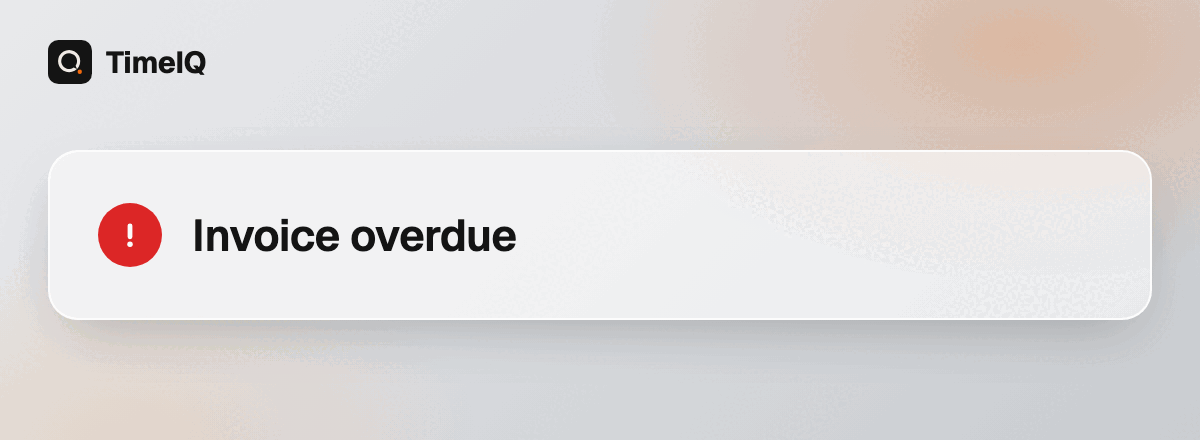
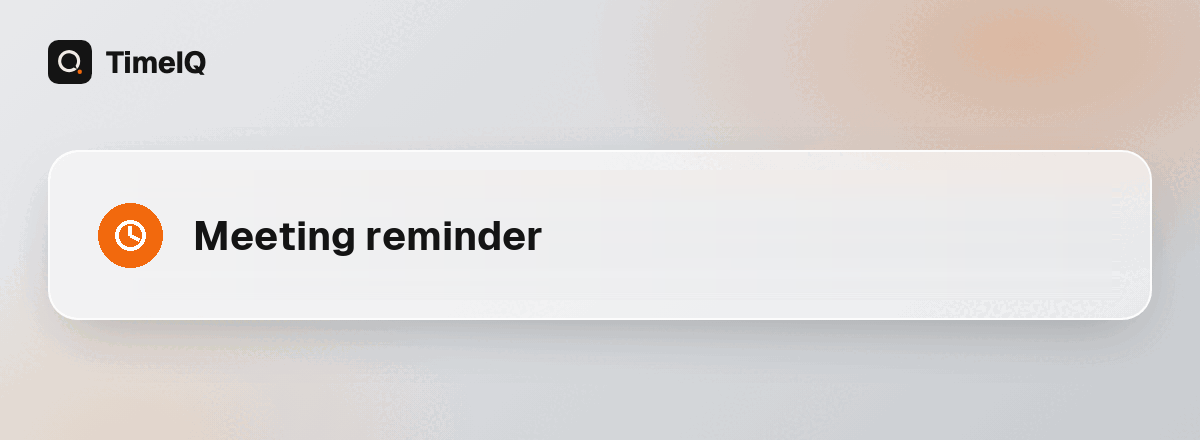
Emails: a header that matches each email instead of 'Invoice overdue'; meet page says who a time works for

Changed region(s): [[0.0617, 0.4432, 0.4625, 0.6205]]

diff --git a/frontend/src/app/meet/[token]/page.tsx b/frontend/src/app/meet/[token]/page.tsx
@@ -53,6 +53,11 @@ function GetTimeIQ() {
   );
 }
 
+/** How many people the time works for, counting the viewer's own pick. */
+function fitsLabel(n: number, people: number): string {
+  return n >= people ? "Works for everyone" : `Works for ${n} of ${people}`;
+}
+
 export default function MeetInvitePage() {
   const { token } = useParams<{ token: string }>();
   const { isSignedIn, getToken } = useAuth();
@@ -254,7 +259,7 @@ export default function MeetInvitePage() {
                         <span className="flex items-center gap-2 text-xs">
                           {others > 0 && slot && (
                             <span className={on ? "text-background/70" : "text-muted-foreground"}>
-                              {slot.can_make_it + (on && !slot.mine ? 1 : 0) - (!on && slot.mine ? 1 : 0)} of {m.people} free
+                              {fitsLabel(slot.can_make_it + (on && !slot.mine ? 1 : 0) - (!on && slot.mine ? 1 : 0), m.people)}
                             </span>
                           )}
                           <span
@@ -319,7 +324,7 @@ export default function MeetInvitePage() {
                               <span className="block font-mono tabular-nums">{timeLabel(s.start, zone)}</span>
                               {others > 0 && (
                                 <span className={`block text-[10px] ${on ? "text-background/70" : "text-muted-foreground"}`}>
-                                  {s.can_make_it + (on && !s.mine ? 1 : 0) - (!on && s.mine ? 1 : 0)} of {m.people} free
+                                  {fitsLabel(s.can_make_it + (on && !s.mine ? 1 : 0) - (!on && s.mine ? 1 : 0), m.people)}
                                 </span>
                               )}
                             </button>

diff --git a/backend/app/services/email.py b/backend/app/services/email.py
@@ -662,7 +662,7 @@ def render_overdue_digest(user: User, invoices: list, today: date) -> str:
         + t.details(rows, rows_html=True)
         + t.buttons(t.button("View invoices", f"{_site()}/invoices"))
     )
-    return t.layout("reminder", f"{len(invoices)} overdue invoice(s), {fmt_money(total, currency)} outstanding", body)
+    return t.layout("overdue", f"{len(invoices)} overdue invoice(s), {fmt_money(total, currency)} outstanding", body)
 
 
 def send_overdue_digest(user: User, invoices: list, today: date) -> None:
@@ -713,7 +713,7 @@ def render_calendar_broken(user: User, source) -> str:
         + t.buttons(t.button("Fix it in TimeIQ", f"{_site()}/calendars"))
         + t.p("TimeIQ will keep checking once a day and stop warning you as soon as it syncs again.", muted=True)
     )
-    return t.layout("reminder", f"{source.name} stopped syncing with TimeIQ", body)
+    return t.layout("calendar", f"{source.name} stopped syncing with TimeIQ", body)
 
 
 def send_calendar_broken(user: User, source) -> None:
@@ -771,7 +771,7 @@ def render_schedule_import(user: User, record, rows: list[dict], schedule_name: 
             )
             + t.p("Something wrong? Undo it, then forward the schedule again with a note about what to fix.", muted=True)
         )
-        return subject, t.layout("reminder", subject, body)
+        return subject, t.layout("schedule", subject, body)
     if record.status == "rejected":
         subject = "We couldn't add that schedule"
         message = record.error or "That email couldn't be imported."
@@ -785,7 +785,7 @@ def render_schedule_import(user: User, record, rows: list[dict], schedule_name: 
         subject = "Something went wrong adding that schedule"
         message = "TimeIQ hit an error reading it. Please try again in a few minutes; nothing was added."
     body = t.h1(subject) + t.p(message) + t.buttons(t.button("Open TimeIQ", f"{_site()}/calendars"))
-    return subject, t.layout("reminder", subject, body)
+    return subject, t.layout("schedule", subject, body)
 
 
 def send_schedule_import_reply(user: User, record, rows: list[dict], schedule_name: str | None, to: list[str]) -> None:
@@ -863,7 +863,7 @@ def render_free_meetings(user: User, left: int, free: int) -> str:
         + t.buttons(t.button("Pick a plan", f"{site}/pricing"))
         + t.signoff(MAKER_NAME, MAKER_ROLE)
     )
-    return t.layout("reminder", lead, body)
+    return t.layout("account", lead, body)
 
 
 async def send_free_meetings_notice(user: User, left: int, free: int, key: str) -> None:
@@ -904,7 +904,7 @@ def render_trial_ending(trial_end: datetime, price: str, interval: str, has_acco
         )
         + t.buttons(manage)
     )
-    return t.layout("reminder", f"Your TimeIQ trial ends {when}: {price} per {interval} after that.", body)
+    return t.layout("account", f"Your TimeIQ trial ends {when}: {price} per {interval} after that.", body)
 
 
 async def send_trial_ending(
@@ -1062,7 +1062,7 @@ def render_group_invite(meeting, participant, suggested: list[datetime] | None =
         + picker
         + _timeiq_note()
     )
-    return t.layout("reminder", f"{org} wants to find a time for {meeting.title}", body)
+    return t.layout("find-time", f"{org} wants to find a time for {meeting.title}", body)
 
 
 def send_group_invite(meeting, participant, reminder: bool = False, suggested: list[datetime] | None = None) -> None:
@@ -1411,7 +1411,7 @@ def send_alias_confirmation(email: str, token: str, owner: User) -> None:
     )
     _init_resend()
     _send({"from": FROM_EMAIL, "to": [email], "subject": subject,
-           "html": t.layout("reminder", subject, body)}, "address confirmation")
+           "html": t.layout("account", subject, body)}, "address confirmation")
 
 
 def send_unknown_agent_sender(sender: str) -> None:
@@ -1423,4 +1423,4 @@ def send_unknown_agent_sender(sender: str) -> None:
     _init_resend()
     _send({"from": FROM_EMAIL, "to": [sender], "subject": subject,
            "headers": {"Auto-Submitted": "auto-replied"},
-           "html": t.layout("reminder", subject, body)}, "unknown agent sender")
+           "html": t.layout("account", subject, body)}, "unknown agent sender")

diff --git a/brand/email_heroes.py b/brand/email_heroes.py
@@ -1,0 +1,91 @@
+"""
+Draw the email header images that only differ by their label card.
+
+Starts from hero-invoice.png (logo, glass background, empty-able card), clears
+the card's icon and label, and draws a new icon and label in Geist Bold.
+Run from the repo root: python3 brand/email_heroes.py
+"""
+from pathlib import Path
+
+from PIL import Image, ImageDraw, ImageFilter, ImageFont
+
+ROOT = Path(__file__).resolve().parent.parent
+OUT = ROOT / "frontend/public/email"
+FONT = ROOT / "frontend/node_modules/geist/dist/fonts/geist-sans/Geist-Bold.ttf"
+
+TANGERINE = (242, 105, 13)
+INK = (20, 20, 20)
+RED = (220, 38, 38)
+WHITE = (255, 255, 255)
+
+# name: (label, icon colour, glyph)
+HEROES = {
+    "reminder": ("Meeting reminder", TANGERINE, "clock"),
+    "find-time": ("Find a time", TANGERINE, "clock"),
+    "week": ("Your week", INK, "calendar"),
+    "calendar": ("Calendar needs attention", RED, "alert"),
+    "schedule": ("Schedule received", TANGERINE, "calendar"),
+    "account": ("Your TimeIQ account", INK, "person"),
+}
+
+# Card interior rows and the strip holding the old icon and label (1200x440 image).
+Y0, Y1 = 170, 300
+X_CLEAR0, X_CLEAR1 = 80, 1120
+ICON_C, ICON_R = (130, 235), 32
+
+
+def clear_label(img: Image.Image) -> None:
+    """Replace each row of the label strip with a blend of the card's own edge pixels."""
+    px = img.load()
+    for y in range(Y0, Y1):
+        left, right = px[X_CLEAR0 - 6, y], px[X_CLEAR1 + 6, y]
+        span = X_CLEAR1 - X_CLEAR0
+        for x in range(X_CLEAR0, X_CLEAR1):
+            t = (x - X_CLEAR0) / span
+            px[x, y] = tuple(round(a + (b - a) * t) for a, b in zip(left, right))
+    # Row-by-row blending leaves faint streaks; a soft blur hides them.
+    box = (X_CLEAR0, Y0, X_CLEAR1, Y1)
+    img.paste(img.crop(box).filter(ImageFilter.GaussianBlur(4)).crop((8, 8, X_CLEAR1 - X_CLEAR0 - 8, Y1 - Y0 - 8)), (X_CLEAR0 + 8, Y0 + 8))
+
+
+def draw_icon(d: ImageDraw.ImageDraw, colour, glyph: str) -> None:
+    cx, cy = ICON_C
+    d.ellipse([cx - ICON_R, cy - ICON_R, cx + ICON_R, cy + ICON_R], fill=colour)
+    w = 4
+    if glyph == "clock":
+        d.ellipse([cx - 15, cy - 15, cx + 15, cy + 15], outline=WHITE, width=w)
+        d.line([cx, cy, cx, cy - 9], fill=WHITE, width=w)
+        d.line([cx, cy, cx + 8, cy + 4], fill=WHITE, width=w)
+    elif glyph == "calendar":
+        d.rounded_rectangle([cx - 14, cy - 12, cx + 14, cy + 14], radius=4, outline=WHITE, width=w)
+        d.line([cx - 14, cy - 3, cx + 14, cy - 3], fill=WHITE, width=w)
+        d.line([cx - 7, cy - 17, cx - 7, cy - 9], fill=WHITE, width=w)
+        d.line([cx + 7, cy - 17, cx + 7, cy - 9], fill=WHITE, width=w)
+    elif glyph == "alert":
+        d.rounded_rectangle([cx - 3, cy - 15, cx + 3, cy + 5], radius=3, fill=WHITE)
+        d.ellipse([cx - 4, cy + 9, cx + 4, cy + 17], fill=WHITE)
+    elif glyph == "person":
+        d.ellipse([cx - 8, cy - 15, cx + 8, cy + 1], fill=WHITE)
+        d.pieslice([cx - 15, cy + 4, cx + 15, cy + 34], 180, 360, fill=WHITE)
+
+
+def main() -> None:
+    base = Image.open(OUT / "hero-invoice.png").convert("RGB")
+    # The overdue digest keeps the original "Invoice overdue" art under its own name.
+    reminder = OUT / "hero-reminder.png"
+    overdue = OUT / "hero-overdue.png"
+    if not overdue.exists():
+        overdue.write_bytes(reminder.read_bytes())
+    font = ImageFont.truetype(str(FONT), 40)
+    for name, (label, colour, glyph) in HEROES.items():
+        img = base.copy()
+        clear_label(img)
+        d = ImageDraw.Draw(img)
+        draw_icon(d, colour, glyph)
+        d.text((193, ICON_C[1]), label, font=font, fill=INK, anchor="lm")
+        img.save(OUT / f"hero-{name}.png", optimize=True)
+        print("wrote", f"hero-{name}.png")
+
+
+if __name__ == "__main__":
+    main()

diff --git a/backend/app/services/weekly_summary.py b/backend/app/services/weekly_summary.py
@@ -177,7 +177,7 @@ def render_content(user, content, unsubscribe_url) -> str:
     body += t.buttons(t.button("Open TimeIQ", f"{settings.FRONTEND_URL.rstrip('/')}/bookings"))
     body += t.p("Open time uses your saved availability and latest calendar sync.", muted=True)
     body += f'<p style="font-size:12px;"><a href="{escape(unsubscribe_url, quote=True)}">Unsubscribe from Your week</a></p>'
-    return t.layout("reminder", "Your bookings, open time and billing for the week.", body)
+    return t.layout("week", "Your bookings, open time and billing for the week.", body)
 
 
 async def send_for_user(db, user, now) -> None:

diff --git a/backend/app/services/email_templates.py b/backend/app/services/email_templates.py
@@ -24,7 +24,10 @@ CARD_BORDER = "#e4e5e7"
 PANEL_BG = "#f7f7f8"
 FONT = "-apple-system, BlinkMacSystemFont, 'Segoe UI', Helvetica, Arial, sans-serif"
 
-HEROES = {"confirmed", "new-booking", "cancelled", "invoice", "welcome", "reminder"}
+HEROES = {
+    "confirmed", "new-booking", "cancelled", "invoice", "welcome", "reminder",
+    "overdue", "find-time", "week", "calendar", "schedule", "account",
+}  # images: frontend/public/email/hero-*.png, drawn by brand/email_heroes.py
 
 
 def _asset(name: str) -> str:

diff --git a/backend/app/services/email_import.py b/backend/app/services/email_import.py
@@ -392,7 +392,7 @@ def _send_inactive_notice(user: User) -> None:
     )
     mail._init_resend()
     mail._send(
-        {"from": mail.FROM_EMAIL, "to": [user.email], "subject": subject, "html": t.layout("reminder", subject, body)},
+        {"from": mail.FROM_EMAIL, "to": [user.email], "subject": subject, "html": t.layout("account", subject, body)},
         "inactive subscription notice",
     )
 

diff --git a/backend/tests/test_email_heroes.py b/backend/tests/test_email_heroes.py
@@ -1,0 +1,10 @@
+from pathlib import Path
+
+from app.services.email_templates import HEROES
+
+EMAIL_ASSETS = Path(__file__).resolve().parents[2] / "frontend/public/email"
+
+
+def test_every_email_header_has_its_image():
+    missing = [h for h in HEROES if not (EMAIL_ASSETS / f"hero-{h}.png").exists()]
+    assert missing == []
